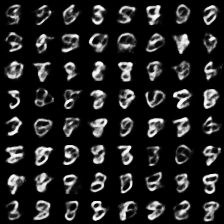
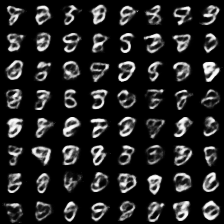
update readme

Changed region(s): [[0.0, 0.0, 1.0, 1.0], [0.0, 0.0, 0.125, 0.25], [0.75, 0.0, 0.875, 0.125]]

diff --git a/rlsolver/rlsolver_compressive_sensing/readme.md b/rlsolver/rlsolver_compressive_sensing/readme.md
@@ -12,9 +12,12 @@ Wu, Yan, Mihaela Rosca, and Timothy Lillicrap. "Deep compressed sensing." Intern
 
 ## Reconstruction Demo for MNIST (Formula (7) is trained as a deep neural network)
 
-|Origin image| 0 steps|3 steps | 5 steps|
-| ----------- | -----|------ |-----|
-|![alt_text](./fig/origin.png)|![alt_text](./fig/reconstruction_0.png)|![alt_text](./fig/reconstruction_3.png)|![alt_text](./fig/reconstruction_5.png)
+|Method|RECON_LOSS|Origin image| 1 steps|3 steps | 5 steps|
+|-------| ----|------- | -----|------ |-----|
+|grad+$F_\phi$|4.78|![alt_text](./fig/origin.png)|![alt_text](./fig/reconstruction_0.png)|![alt_text](./fig/reconstruction_3.png)|![alt_text](./fig/reconstruction_5.png)|
+|NN + $F_\phi$|10.20|![alt_text](./fig/origin.png)|![alt_text](./fig/reconstruction_0_nn.png)|![alt_text](./fig/reconstruction_3_nn.png)|![alt_text](./fig/reconstruction_5_nn.png)|
+
+
 
 ## Training Curve
 ![alt_text](./fig/training_curve.png)
